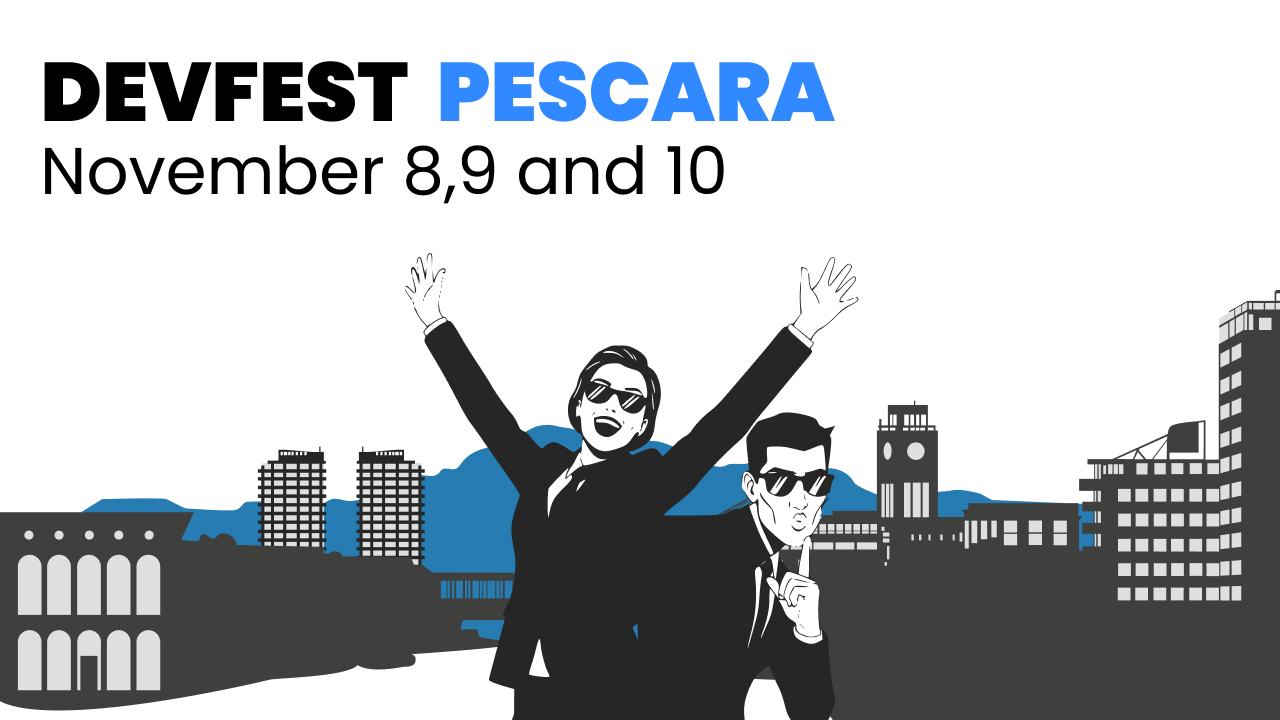
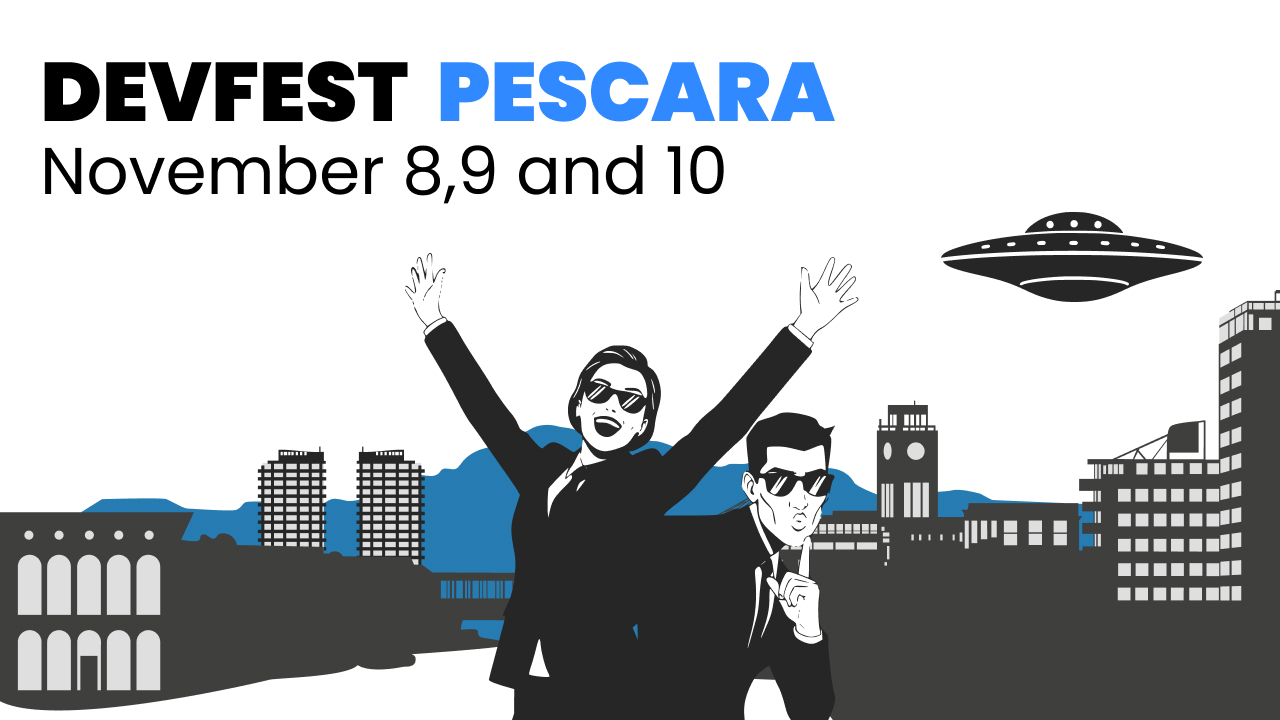
Add concentric circles animation for flying alien element in global CSS

Changed region(s): [[0.7188, 0.275, 0.9375, 0.4278]]

diff --git a/src/styles/global.css b/src/styles/global.css
@@ -47,4 +47,26 @@
   --noise: 0;
 }
 
+@keyframes concentricCircles {
+  0% {
+    transform: translateX(0);
+  }
+  25% {
+    transform: translateX(10px);
+  }
+  50% {
+    transform: translateX(0);
+  }
+  75% {
+    transform: translateX(-10px);
+  }
+  100% {
+    transform: translateX(0);
+  }
+}
+
+#flying-alien {
+  animation: concentricCircles 4s linear infinite;
+}
+
 @plugin "@tailwindcss/typography";
